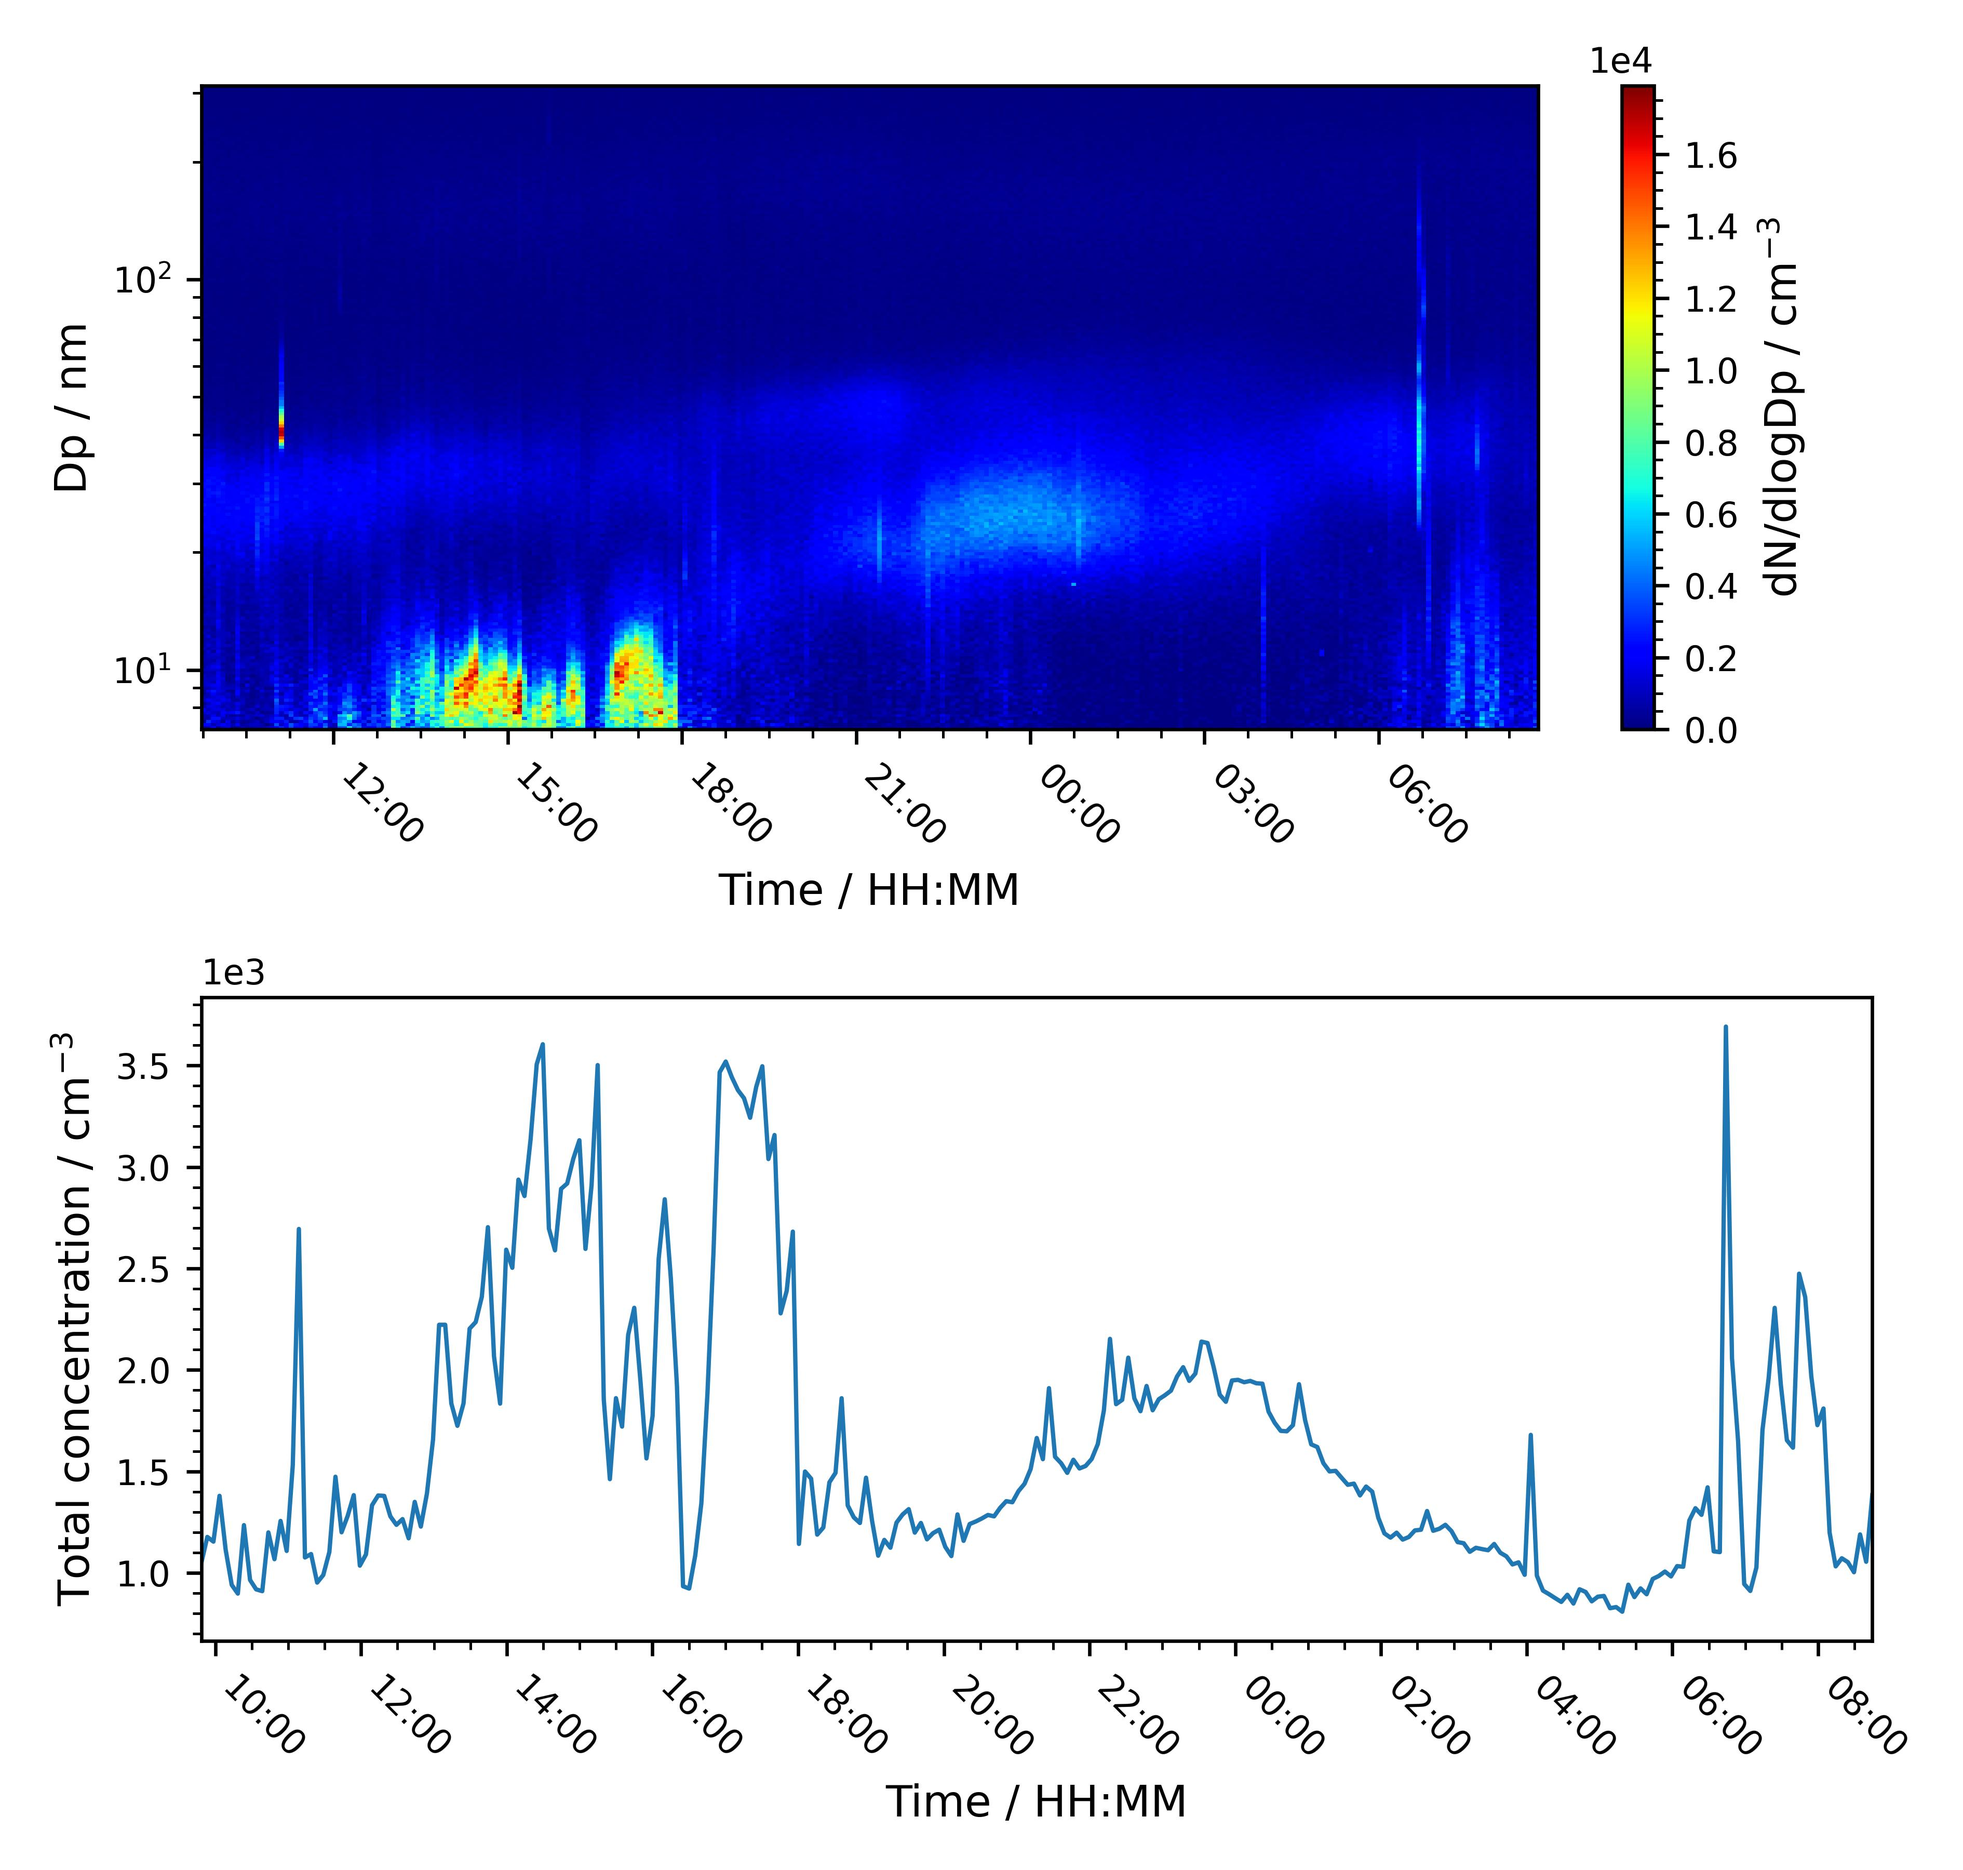
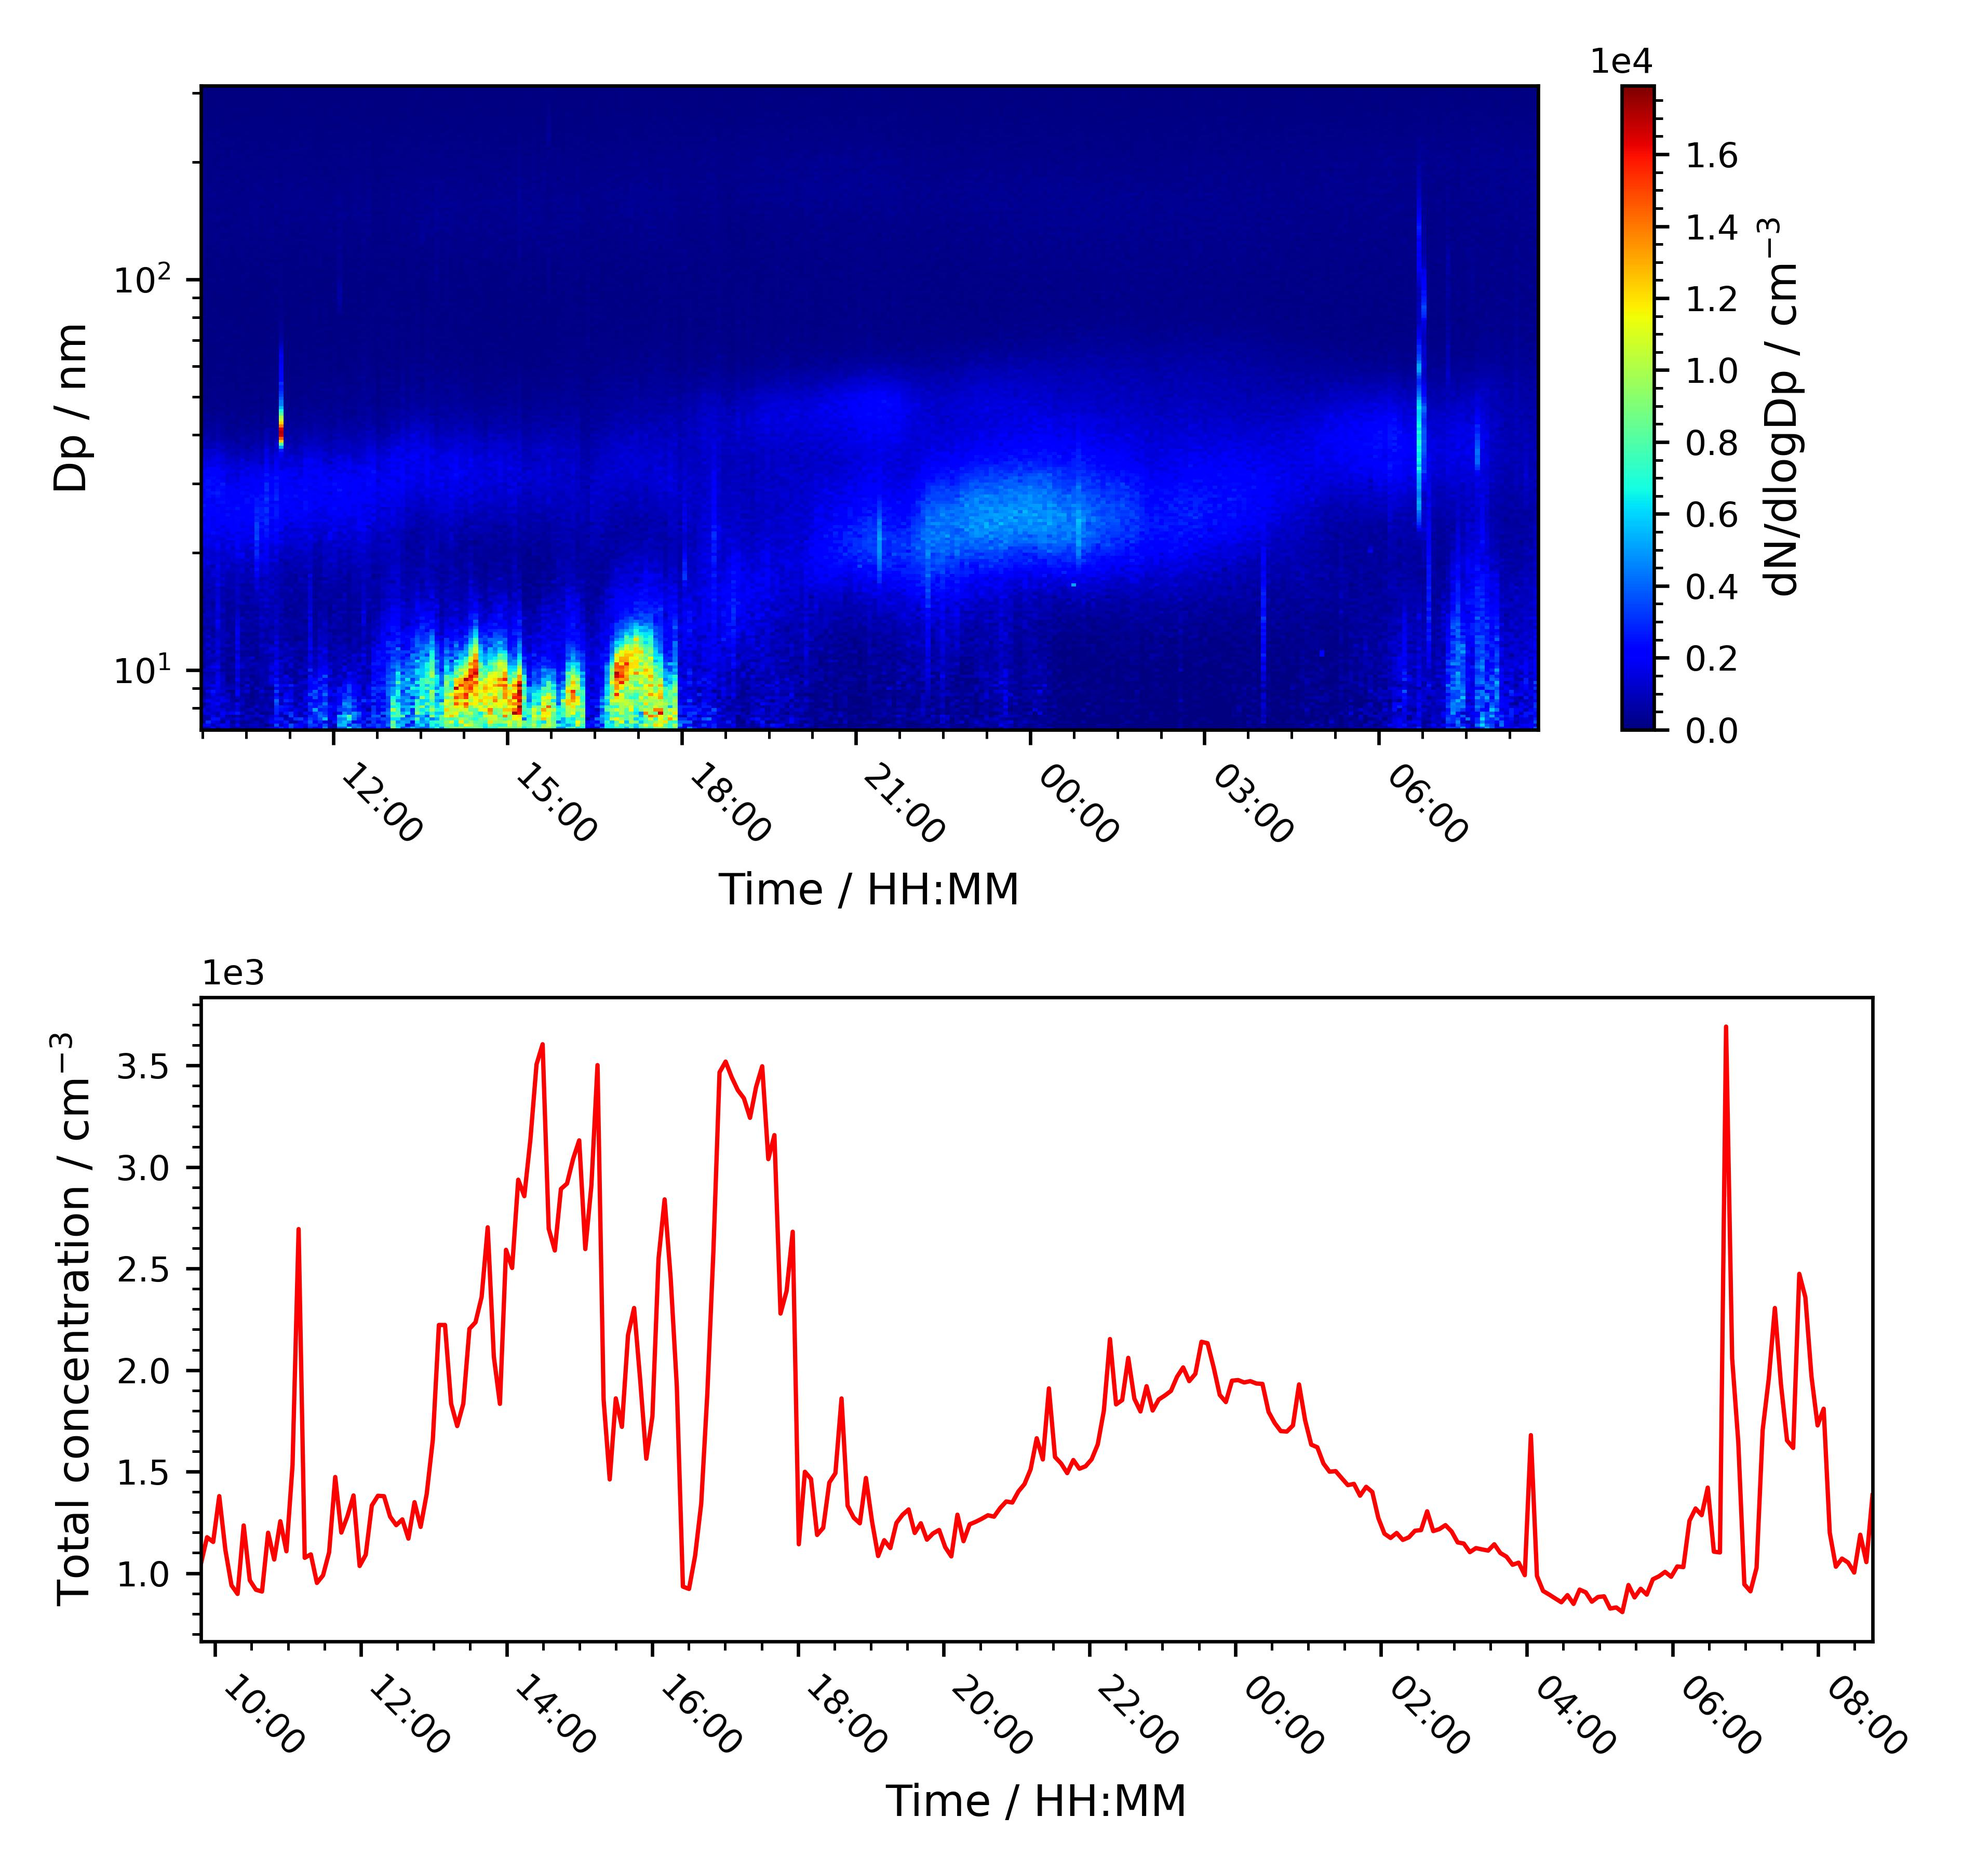
Update

diff --git a/plot_functions.py b/plot_functions.py
@@ -5,7 +5,6 @@ import pandas as pd
 import sys
 import matplotlib.dates as mdates
 from mpl_toolkits.axes_grid1.inset_locator import inset_axes
-from iminuit import Minuit
 sys.path.append('..')
 from calculations import *
 #%%
@@ -38,29 +37,55 @@ def plot_inset(ax, height, loc, bb2a, plot_width, xdata, ydata, width, bar, time
 
     return artist, inset_ax
 
-def plot_heatmap(ax, df, df_keys, time, bin_edges, cutpoint, normed):
-    data = np.array(df[df_keys])
+def plot_heatmap(ax, df, df_keys, time, bin_edges, cutpoint, normed, SASS):
+    
+    if SASS:
+        data = np.array([df['CorrectedSpectralDensity'][df['ScanNumber'] == 1].tolist()])
+        for scan_id, group in df.groupby('ScanNumber'):
+            if scan_id != 1:
+                conc = group['CorrectedSpectralDensity'].tolist()
+                if len(conc) < 599:
+                    conc.append(0)                
+                if (scan_id % 2) == 0:
+                    conc = conc[::-1]                              
+                data = np.concatenate((data, np.array([conc])), axis = 0)
+            #else:
+                #data = np.append(data, conc.tolist(), axis = 0)
 
-    if normed == False:
-        dlogDp = np.log10(bin_edges[1:])-np.log10(bin_edges[:-1])
-        data=data/dlogDp
+        data = np.array(data[:max(df['ScanNumber'])])
+        
+        # Generate an extra time bin, which is needed for the meshgrid
+        time = np.unique(time)
+        dt = time[1]-time[0]
+        new_time = time - pd.Timedelta(minutes = 10)
+        new_time = np.append(new_time, time[-1])     
 
+        size = df['Size'][df['ScanNumber'] == 1].tolist() + [111.9]
+        
+        # generate 2d meshgrid for the x, y, and z data of the 3D color plot
+        y, x = np.meshgrid(np.array(size), new_time)
+    
+    else:
+        data = np.array(df[df_keys])
+
+        if normed == False:
+            dlogDp = np.log10(bin_edges[1:])-np.log10(bin_edges[:-1])
+            data=data/dlogDp
+            
+        # Generate an extra time bin, which is needed for the meshgrid
+        dt = time[1]-time[0]
+        new_time = time - dt
+        new_time = np.append(new_time, new_time[-1]+dt)
+    
+        # generate 2d meshgrid for the x, y, and z data of the 3D color plot
+        y, x = np.meshgrid(bin_edges, new_time)
+    
     # Set the upper and/or lower limit of the color scale based on input
     y_min = np.nanmin(data)
     y_max = np.nanmax(data)
-
-    # Generate an extra time bin, which is needed for the meshgrid
-    dt = time[1]-time[0]
-    new_time = time - dt
-    new_time = np.append(new_time, new_time[-1]+dt)
-
-    # generate 2d meshgrid for the x, y, and z data of the 3D color plot
-    y, x = np.meshgrid(bin_edges, new_time)
-
+    
     # Fill the generated mesh with particle concentration data
     p1 = ax.pcolormesh(x, y, data, cmap='jet',vmin=y_min, vmax=y_max,shading='flat')
-
-    # ax.hlines(np.array([0.1, 2.5]), np.array([new_time[0], new_time[0]]), np.array([new_time[-1], new_time[-1]]), colors = 'white', linestyles = '--')
 
     if cutpoint != None:
         ax.hlines(cutpoint, new_time[0], new_time[-1], colors = 'white', linestyles = '--')
@@ -75,12 +100,13 @@ def plot_heatmap(ax, df, df_keys, time, bin_edges, cutpoint, normed):
     ax.set_ylabel("Dp / nm")
     return ax, p1
 
-def plot_total(ax, df, conc_key, clr, lstyle):
-    if conc_key == None:
-        total_conc = df.iloc[:,1:].sum(axis=1)
-        ax.plot(df['Time'], total_conc, lw = 1, color = 'r')
+def plot_total(ax, df, conc_key, clr, SASS):
+    if SASS:
+        total_conc = calc_total_conc(df, [111, 5490], 202.5, ['Size', 'CorrectedSpectralDensity'])
+        ax.plot(total_conc['Time'], total_conc['Total Concentration'], lw = 1, color = clr)
+        
     else:
-        ax.plot(df['Time'], df[conc_key], lw = 1, color = clr, ls = lstyle)
+        ax.plot(df['Time'], df[conc_key], lw = 1, color = clr)
 
     ax.xaxis.set_major_formatter(mdates.DateFormatter("%H:%M"))
     ax.set_xticklabels(ax.get_xticklabels(), rotation=-45, ha="left")
@@ -88,7 +114,7 @@ def plot_total(ax, df, conc_key, clr, lstyle):
     plt.subplots_adjust(hspace=0.05)
     return ax
 
-def plot_timeseries(fig, ax, df, df_keys, bin_edges, datatype, timestamps, normed, total, cutpoint):
+def plot_timeseries(fig, ax, df, df_keys, bin_edges, datatype, timestamps, normed, total, cutpoint, SASS):
     
     start_time = pd.to_datetime(timestamps[0])
     end_time = pd.to_datetime(timestamps[1])
@@ -112,27 +138,27 @@ def plot_timeseries(fig, ax, df, df_keys, bin_edges, datatype, timestamps, norme
             new_df_number[key], new_df_mass[key] = filtered_number, filtered_mass
 
         if total != None:
-            ax1, p1 = plot_heatmap(ax[0][0], new_df_number, df_keys, filtered_time, bin_edges, cutpoint, normed)
-            ax2, p2 = plot_heatmap(ax[0][1], new_df_mass, df_keys, filtered_time, bin_edges, cutpoint, normed)
+            ax1, p1 = plot_heatmap(ax[0][0], new_df_number, df_keys, filtered_time, bin_edges, cutpoint, normed, SASS)
+            ax2, p2 = plot_heatmap(ax[0][1], new_df_mass, df_keys, filtered_time, bin_edges, cutpoint, normed, SASS)
 
             total_df_number = pd.DataFrame({'Time': filtered_time})
             conc = np.array(df_number[total])
             conc = pd.to_numeric(conc, errors='coerce')
             total_df_number[total] = conc[time_filter]
-            ax3 = plot_total(ax[1], total_df_number, total, None, None)
+            ax3 = plot_total(ax[1], total_df_number, total, 'r', SASS)
 
             total_df_mass = pd.DataFrame({'Time': filtered_time})
             conc = np.array(df_mass[total])
             conc = pd.to_numeric(conc, errors='coerce')
             total_df_mass[total] = conc[time_filter]     
-            ax4 = plot_total(ax[1], total_df_mass, total, None, None)
+            ax4 = plot_total(ax[1], total_df_mass, total, 'r', SASS)
 
             ax3.set_ylabel('Total number conc. / cm$^{-3}$')
             ax4.set_ylabel('Total mass conc. / $\mu$g m$^{-3}$')
 
         else:
-            ax1, p1 = plot_heatmap(ax[0], new_df_number, df_keys, filtered_time, bin_edges, cutpoint, normed)
-            ax2, p2 = plot_heatmap(ax[1], new_df_mass, df_keys, filtered_time, bin_edges, cutpoint, normed)
+            ax1, p1 = plot_heatmap(ax[0], new_df_number, df_keys, filtered_time, bin_edges, cutpoint, normed, SASS)
+            ax2, p2 = plot_heatmap(ax[1], new_df_mass, df_keys, filtered_time, bin_edges, cutpoint, normed, SASS)
 
         # Insert coloarbar and label it
         col1 = fig.colorbar(p1, ax=ax1)
@@ -158,17 +184,20 @@ def plot_timeseries(fig, ax, df, df_keys, bin_edges, datatype, timestamps, norme
             new_df[key] = filtered_conc
 
         if total != None:
-            ax1, p1 = plot_heatmap(ax[0], new_df, df_keys, filtered_time, bin_edges, cutpoint, normed)
-
-            total_df = pd.DataFrame({'Time': filtered_time})
-            conc = np.array(df[total])
-            conc = pd.to_numeric(conc, errors='coerce')
-            total_df[total] = conc[time_filter]
+            ax1, p1 = plot_heatmap(ax[0], new_df, df_keys, filtered_time, bin_edges, cutpoint, normed, SASS)
             
-            ax2 = plot_total(ax[1], total_df, total, None, None)
+            if SASS:
+                ax2 = plot_total(ax[1], new_df, None, 'r', SASS)
+            else:
+                total_df = pd.DataFrame({'Time': filtered_time})
+                conc = np.array(df[total])
+                conc = pd.to_numeric(conc, errors='coerce')
+                total_df[total] = conc[time_filter]
+                
+                ax2 = plot_total(ax[1], total_df, total, 'r', SASS)
 
         else:
-            ax1, p1 = plot_heatmap(ax, new_df, df_keys, filtered_time, bin_edges, cutpoint, normed)
+            ax1, p1 = plot_heatmap(ax, new_df, df_keys, filtered_time, bin_edges, cutpoint, normed, SASS)
 
         # Insert coloarbar and label it
         col = fig.colorbar(p1, ax=ax1)
@@ -316,7 +345,7 @@ def instrument_comparison(ax, x_data, y_data, label, ax_labels, forced_zero):
         fit_params, fit_errors, squares, ndof, R2 = linear_fit(x_data, y_data, linear, a_guess = 1, b_guess = 0)
         y_fit = linear(x_plot, *fit_params)
     
-    print(fit_params)
+    print(f'f(x) = {fit_params[0]}x + {fit_params[1]}, R2 = {R2}')
 
     ax.plot(x_plot, y_fit, color = 'k', lw = 1.2, label = 'Fit')
     ax.scatter(x_data, y_data, s=10, c='b', label = label)

diff --git a/calculations.py b/calculations.py
@@ -114,7 +114,7 @@ def calc_total_conc(df, size_bins, norm, SASS_specific):
             mask = (group[SASS_specific[0]] > size_bins[0]) & (group[SASS_specific[0]] < size_bins[1])
             temp = group[mask]
             #Total_conc[scan_id-1] += sum(pd.to_numeric(temp[SASS_specific[1]])) / norm
-            Total_conc[scan_id-1] += abs(scipy.integrate.simpson(pd.to_numeric(temp[SASS_specific[1]]), x = temp[SASS_specific[0]])) / norm
+            Total_conc[scan_id-1] += abs(scipy.integrate.simpson(np.array(temp[SASS_specific[1]]) / norm, x = temp[SASS_specific[0]]))
 
     else:
         temp = df[size_bins]
@@ -125,7 +125,7 @@ def calc_total_conc(df, size_bins, norm, SASS_specific):
         for i, row in temp.iterrows():
             if norm is not None:
                 #Total_conc[i] += sum(row) / norm
-                Total_conc[i] += scipy.integrate.simpson(row, x = Dp) / norm
+                Total_conc[i] += scipy.integrate.simpson(np.array(row) / norm, x = Dp)
             else: 
                 Total_conc[i] += sum(row)
         
